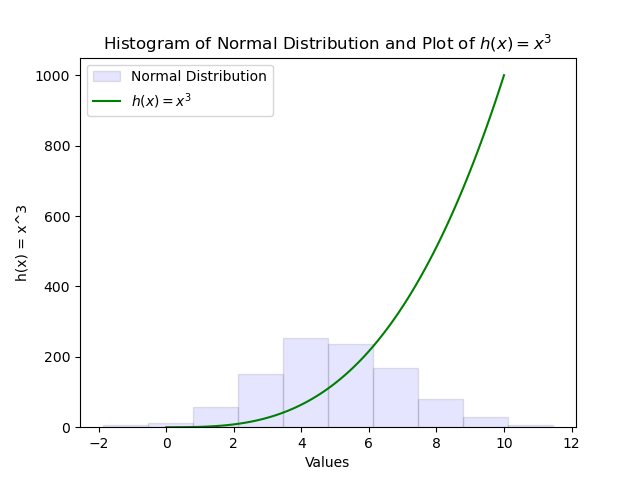
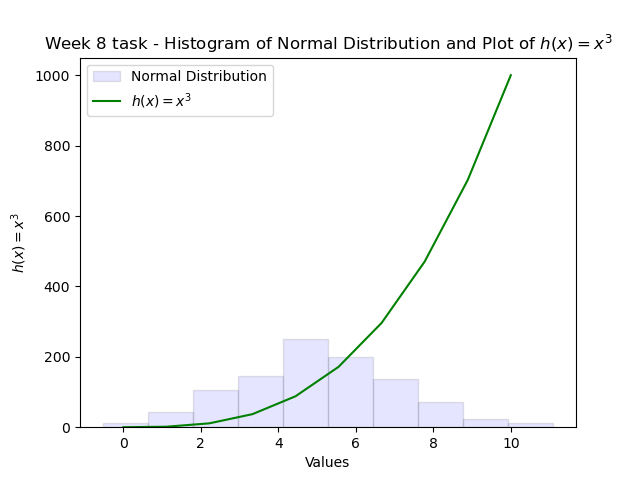
updating linespace values

diff --git a/plottask.py b/plottask.py
@@ -27,20 +27,25 @@ data = np.random.normal(5, 2, 1000)
 # 'data' dataset I want to plot as a histogram
 # 'alpha' parameter sets the transparency level of the histogram bars. A value of 0.1 means the bars 
 # will be very transparent, allowing any underlying data or other elements of the plot to be visible through them
-# 'color', 'label' amd 'edgecolor' are specifing color of the histogram bars, label to historgam plot and color of the edges of the histogram bars
+# 'color', 'label' amd 'edgecolor' are specifing color of the histogram bars, 
+#  label to historgam plot and color of the edges of the histogram bars
 
 plt.hist(data, alpha=0.1, color='blue', label='Normal Distribution', edgecolor="black")
 
 
 
 # Generate x values and calculate corresponding y values for the function h(x) = x^3
-# This line generates 100 equally spaced values between 0 and 10 inclusive using NumPy's linspace() function. 
+# This line generates 10 linear spaces values between 0 and 10 inclusive using linspace function from numpy. 
 # These values represent the x-coordinates for plotting the function
 # and assign to variable x
-x = np.linspace(0, 10, 100)
+# https://numpy.org/doc/stable/reference/generated/numpy.linspace.html
+# https://realpython.com/np-linspace-numpy/
 
-# This line calculates the corresponding y values for the function 
-# by raising each x value to the power of 3.
+x = np.linspace(0, 10, 10)
+
+
+# This line calculates y values for the function 
+# by raising x value to the power of 3.
 y = x ** 3
 
 # the above code means that 'x' will contain 100 x values evenly spaced between 0 and 10, 
@@ -53,8 +58,8 @@ plt.plot(x, y, color='green', label='$h(x) = x^3$')
 # Add legend, labels, and title
 plt.legend()
 plt.xlabel('Values')
-plt.ylabel('h(x) = x^3')
-plt.title('Histogram of Normal Distribution and Plot of $h(x) = x^3$')
+plt.ylabel('$h(x) = x^3$')
+plt.title('Week 8 task - Histogram of Normal Distribution and Plot of $h(x) = x^3$')
 
 # print the histogram and plot
 plt.show()

diff --git a/README.md b/README.md
@@ -147,11 +147,11 @@ The output is:
     but if it is odd, multiply it by three and add one.
     Have the program end if the current value is one.
 
-In topic 04 we were looking at if statements and while and for loops. In the weekly task 04 I needed to write a program that will represent the Collatz conjecture. It is also known as the 3n + 1 conjecture or Collatz problem. It's a mathematical problem that involves iterating a particular sequence based on a simple rule. The rule is as follows:
+In topic 04 we were looking at if statements and while and for loops. In the weekly task 04 I needed to write a program that will represent the Collatz conjecture. It is also known as the $3n + 1$ conjecture or Collatz problem. It's a mathematical problem that involves iterating a particular sequence based on a simple rule. The rule is as follows:
 
     1. Start with any positive integer n
-    2. If n is even, divide it by 2 (n / 2)
-    3. If n is odd, multiply it by 3 and add 1 (3n + 1)
+    2. If n is even, divide it by 2 $(n / 2)$
+    3. If n is odd, multiply it by 3 and add 1 $(3n + 1)$
     4. Repeat the process with the new value of n obtained in step 2 or 3.
 
 The conjecture posits that no matter what positive integer you start with, this sequence will eventually reach 1. However, proving or disproving this conjecture remains an unsolved problem in mathematics, despite being easy to understand and experiment with computationally. 
@@ -214,12 +214,12 @@ In topic 06 we were looking at *if* statements and *while* and *for* loops. Week
 This task required from the students to create their own function rather than using built-in function. 
 
 
-Newton method is that for any number N, the square root is 0.5 * (X + N / X).
+Newton method is that for any number N, the square root is $0.5 * (X + N / X)$.
 
 I have created my own function *sqrt(x)*.  First I needed to check if the number is positive, as the assumption of this method is that the number must be positive. I used *if* statement and *abs()* module to get the positive floating number from the user input. 
 
 In the function, variable *guess*  is defined as an initial guess that first iteration equals to the number we want to root. Variable *x* was the user input.
-Next, in the *while* loop we are checking next guess which is the Newton method 0.5 * (X + N / X). I am using *if* statement to get the closest value of the difference between iterations. It is updating current guess to be the value of the next guess until the difference between them is small (less than 0,001). Then loop stops and returns the square root number rounded to the first decimal place. 
+Next, in the *while* loop we are checking next guess which is the Newton method $0.5 * (X + N / X)$. I am using *if* statement to get the closest value of the difference between iterations. It is updating current guess to be the value of the next guess until the difference between them is small (less than 0,001). Then loop stops and returns the square root number rounded to the first decimal place. 
 
 
 The program is called: 
@@ -289,16 +289,29 @@ Another assumption is that the file is a txt file. If not, the error message is 
 
     Write a program called plottask.py that displays:
     a histogram of a normal distribution of a 1000 values with a mean of 5 and standard deviation of 2, 
-    and a plot of the function  h(x)=x3 in the range 0 to 10, on the one set of axes. 
+    and a plot of the function  $h(x)=x3$ in the range 0 to 10, on the one set of axes. 
     Some marks will be given for making the plot look nice (legend etc).
 
 
-I generating a dataset (data) of 1000 random numbers sampled from a normal distribution with a mean of 5 and a standard deviation of 2 using NumPy. 
-This dataset can be used for various statistical analyses or for plotting histograms and other visualizations.
+This task required a code to generate a histogram of random data from a normal distribution and plots the function $h(x)=x3$ on the same plot.
+
+Firstly, I imported two libraries *numpy* and *matplotlib* and its module *pyplot* to be able work on mathematical calculations, array manipulations, creating plots and histograms. 
+Then, I generated a dataset (data) of 1000 random numbers sampled from a normal distribution with a mean of 5 and a standard deviation of 2 using NumPy. 
+
+I used matplotlib's hist() function to create a histogram plot of the data specyfying how it will look - color of the histogram bars, label to historgam plot and color of the edges of the histogram bars. 
+
+Then I assigned variables *x* and *y*.
+To represent a mathematical function in Python and plot it, I used *np.linespace()*
+I was reffering to information from [Realpython.com](https://realpython.com/np-linspace-numpy/).
+
+To plot the function I used *plt.plot* and customise it by adding a legend and titles to x axis and y axis. 
 
 
 
-![Plot_task](https://github.com/mondbr/pands-weekly-tasks/blob/main/plottask.png)
+
+The output is:
+
+![Plot_task]
 
 
 
